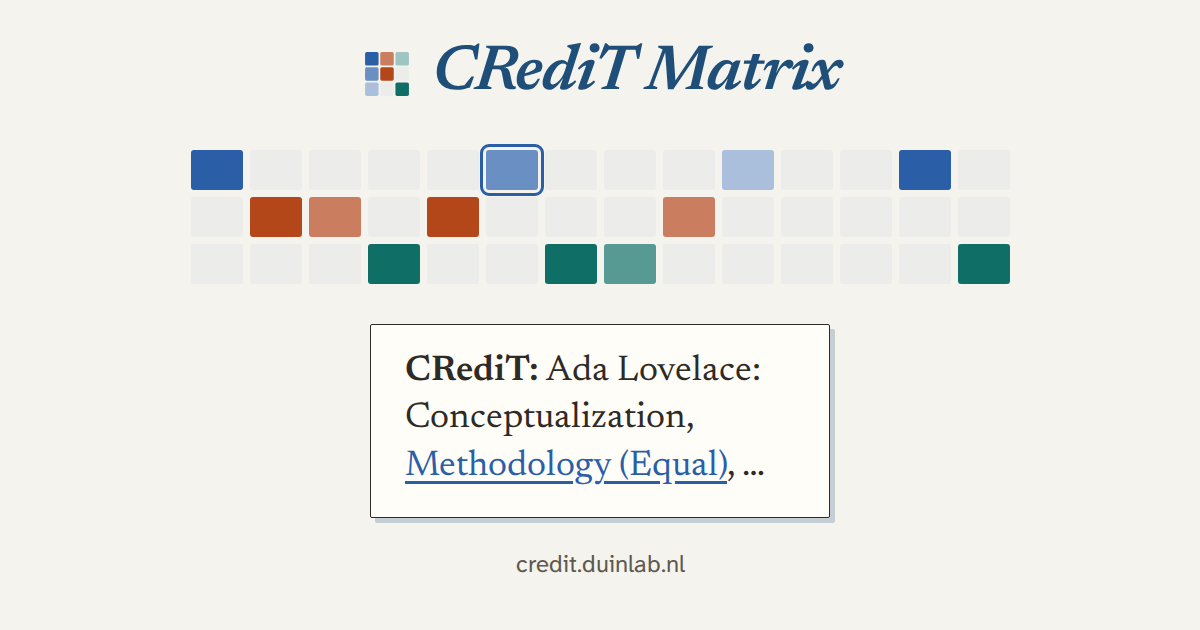
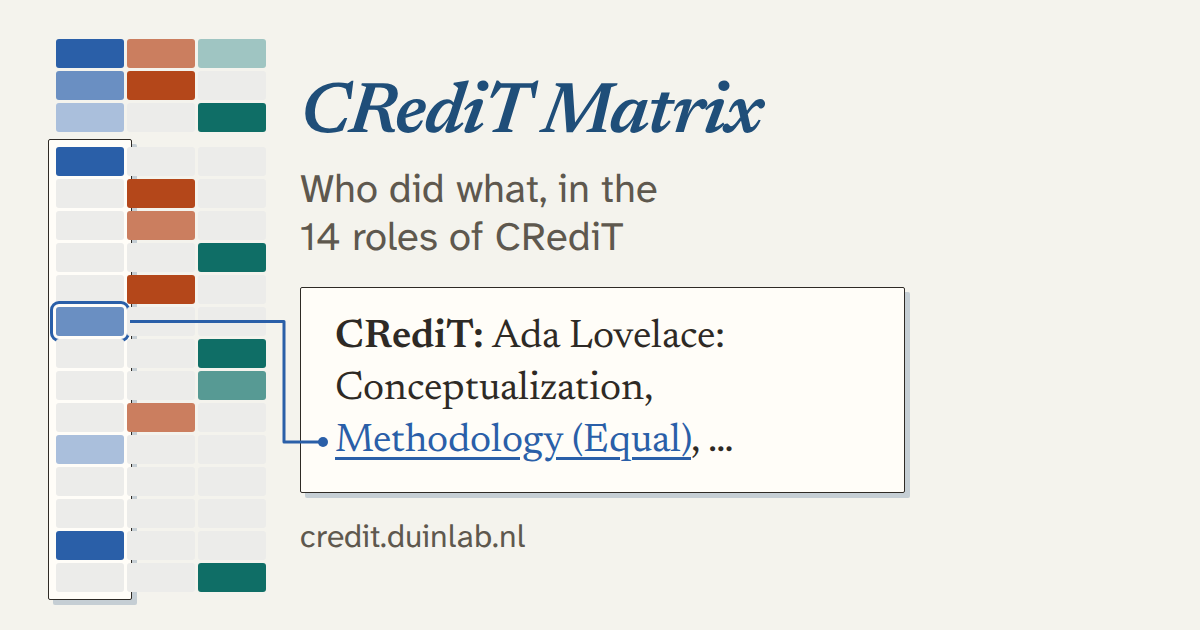
feat(brand): put the contribution matrix beside the statement on the social card
- the matrix runs down the left edge, people as columns and the 14 roles as rows,
  with the brand mark as its top three rows
- Ada's column sits on the same sheet as the statement, and a leader line joins her
  ringed Methodology cell to the underlined phrase
- the name, the line from the README and the address are set larger inside the
  centred 630 px
- cells and the leader are static markup, so the card needs no script to render

diff --git a/docs/brand/opengraph-image.html b/docs/brand/opengraph-image.html
@@ -1,66 +1,99 @@
 <!doctype html><meta charset="utf-8">
-<link href="https://fonts.googleapis.com/css2?family=Newsreader:ital,wght@0,400;0,600;1,400;1,600&family=Atkinson+Hyperlegible+Mono:wght@500&family=Atkinson+Hyperlegible+Next:wght@400;600&display=swap" rel="stylesheet">
-<!-- A poster, not a screen: link previews show this at 300-500 px and some crop it near-square,
-     so everything that carries meaning sits in the centred 630 px and is set large enough to
-     read at a quarter of its size. One idea: the statement comes from the grid. -->
+<link href="https://fonts.googleapis.com/css2?family=Newsreader:ital,wght@0,400;0,600;1,400;1,600&family=Atkinson+Hyperlegible+Next:wght@400;600&display=swap" rel="stylesheet">
+<!-- A poster, not a screen: link previews show this at 300-500 px and some crop it near-square.
+     The name, the line, the statement and the address sit in the centred 630 px (x 285-915) at a
+     size that reads at a quarter scale; the matrix is the picture, on the left, and may fall
+     outside the crop. One idea: the grid becomes the statement. Static markup, no script:
+     regenerate rather than hand-edit the cells. -->
 <style>
  *{box-sizing:border-box}
  html,body{margin:0;padding:0}
  /* The page colour is --color-surface: paper #fbf8f1 tinted 3% toward the default ink-blue. */
- body{width:1200px;height:630px;background:#f4f3ed;color:#2e2a25;overflow:hidden;
-      font-family:"Atkinson Hyperlegible Next",system-ui;
-      display:flex;flex-direction:column;align-items:center;justify-content:center;padding-bottom:8px}
- .lock{display:flex;align-items:center;gap:18px}
- .wm{font-family:Newsreader,serif;font-style:italic;font-weight:600;font-size:64px;line-height:1;
-     letter-spacing:-.02em;color:#1f4e79}
- /* The heatmap on its side, a contributor per row: the figure's own orientation option. */
- .band{margin-top:44px;display:grid;grid-template-columns:repeat(14,52px);gap:7px}
- .cell{height:40px;border-radius:3px;background:#ececea}
+ body{width:1200px;height:630px;background:#f4f3ed;color:#2e2a25;overflow:hidden;position:relative;
+      font-family:"Atkinson Hyperlegible Next",system-ui}
+ /* People are columns, roles are rows, as in the app. The top three rows are the brand mark:
+    one hue per column, lead on the diagonal. */
+ .grid{position:absolute;left:56px;top:39px;display:grid;grid-template-columns:repeat(3,68px);gap:3px;z-index:1}
+ .grid i{display:block;height:29px;border-radius:3px;background:#ececea}
+ .grid i:nth-child(n+10):nth-child(-n+12){margin-top:12px}
  /* The app's link: the cell and the phrase it produced share the contributor's hue. */
- .cell.linked{outline:3px solid #2a5fa8;outline-offset:3px}
- /* The statement sits on the app's result sheet: bright paper, an ink edge, the hard sheet shadow. */
- .out{margin-top:40px;width:460px;background:#fffdf8;border:1px solid #2e2a25;border-radius:2px;
-      padding:24px 34px 26px;box-shadow:5px 5px 0 rgb(31 78 121/.22)}
- .stmt{margin:0;font-family:Newsreader,serif;font-size:36px;line-height:1.32}
+ .grid i.linked{outline:3px solid #2a5fa8;outline-offset:3px}
+ /* Ada's column and the statement share one sheet: bright paper, an ink edge, the hard sheet shadow. */
+ .sheet{background:#fffdf8;border:1px solid #2e2a25;border-radius:2px;box-shadow:5px 5px 0 rgb(31 78 121/.22)}
+ .col-sheet{position:absolute;left:48px;top:139px;width:84px;height:461px}
+ .text{position:absolute;left:300px;top:75px;width:605px}
+ .wm{font-family:Newsreader,serif;font-style:italic;font-weight:600;font-size:72px;line-height:80px;
+      letter-spacing:-.02em;color:#1f4e79}
+ .what{margin:10px 0 0;font-size:40px;line-height:48px;color:#5e584e;height:96px}
+ .card{margin-top:26px;height:206px;padding:24px 34px}
+ .stmt{margin:0;font-family:Newsreader,serif;font-size:40px;line-height:52px}
  .stmt b{font-weight:600}
  .stmt .link{white-space:nowrap;color:#2a5fa8;text-decoration:underline 3px;text-underline-offset:6px}
- .url{margin-top:30px;font-size:24px;color:#5e584e}
+ .url{margin-top:26px;font-size:32px;line-height:36px;color:#5e584e}
+ /* From the ringed cell, along its row, down the gutter, into the card to the phrase. */
+ .leader{position:absolute;left:0;top:0;z-index:2}
 </style>
-<div class="lock">
-  <svg width="54" height="54" viewBox="0 0 32 32" aria-hidden="true">
-    <rect x="3" y="3" width="8" height="8" rx="1" fill="#2a5fa8"/><rect x="12" y="3" width="8" height="8" rx="1" fill="#cb7e5f"/><rect x="21" y="3" width="8" height="8" rx="1" fill="#9fc5c2"/>
-    <rect x="3" y="12" width="8" height="8" rx="1" fill="#6a8fc2"/><rect x="12" y="12" width="8" height="8" rx="1" fill="#b4471a"/><rect x="21" y="12" width="8" height="8" rx="1" fill="#ececea"/>
-    <rect x="3" y="21" width="8" height="8" rx="1" fill="#aabfdc"/><rect x="12" y="21" width="8" height="8" rx="1" fill="#ececea"/><rect x="21" y="21" width="8" height="8" rx="1" fill="#0f6e66"/>
-  </svg>
-  <span class="wm">CRediT Matrix</span>
+<div class="sheet col-sheet"></div>
+<div class="grid">
+  <i style="background:#2a5fa8"></i>
+  <i style="background:#cb7e5f"></i>
+  <i style="background:#9fc5c2"></i>
+  <i style="background:#6a8fc2"></i>
+  <i style="background:#b4471a"></i>
+  <i style="background:#ececea"></i>
+  <i style="background:#aabfdc"></i>
+  <i style="background:#ececea"></i>
+  <i style="background:#0f6e66"></i>
+  <i style="background:#2a5fa8"></i>
+  <i style="background:#ececea"></i>
+  <i style="background:#ececea"></i>
+  <i style="background:#ececea"></i>
+  <i style="background:#b4471a"></i>
+  <i style="background:#ececea"></i>
+  <i style="background:#ececea"></i>
+  <i style="background:#cb7e5f"></i>
+  <i style="background:#ececea"></i>
+  <i style="background:#ececea"></i>
+  <i style="background:#ececea"></i>
+  <i style="background:#0f6e66"></i>
+  <i style="background:#ececea"></i>
+  <i style="background:#b4471a"></i>
+  <i style="background:#ececea"></i>
+  <i class="linked" style="background:#6a8fc2"></i>
+  <i style="background:#ececea"></i>
+  <i style="background:#ececea"></i>
+  <i style="background:#ececea"></i>
+  <i style="background:#ececea"></i>
+  <i style="background:#0f6e66"></i>
+  <i style="background:#ececea"></i>
+  <i style="background:#ececea"></i>
+  <i style="background:#579a94"></i>
+  <i style="background:#ececea"></i>
+  <i style="background:#cb7e5f"></i>
+  <i style="background:#ececea"></i>
+  <i style="background:#aabfdc"></i>
+  <i style="background:#ececea"></i>
+  <i style="background:#ececea"></i>
+  <i style="background:#ececea"></i>
+  <i style="background:#ececea"></i>
+  <i style="background:#ececea"></i>
+  <i style="background:#ececea"></i>
+  <i style="background:#ececea"></i>
+  <i style="background:#ececea"></i>
+  <i style="background:#2a5fa8"></i>
+  <i style="background:#ececea"></i>
+  <i style="background:#ececea"></i>
+  <i style="background:#ececea"></i>
+  <i style="background:#ececea"></i>
+  <i style="background:#0f6e66"></i>
 </div>
-<div class="band" id="band"></div>
-<div class="out">
-  <p class="stmt"><b>CRediT:</b> Ada Lovelace: Conceptualization, <span class="link">Methodology (Equal)</span>, …</p>
+<svg class="leader" width="1200" height="630" viewBox="0 0 1200 630" aria-hidden="true">
+  <path d="M130 321.5H284V442H323" fill="none" stroke="#2a5fa8" stroke-width="3" stroke-linejoin="round"/>
+  <circle cx="323" cy="442" r="5" fill="#2a5fa8"/>
+</svg>
+<div class="text">
+  <div class="wm">CRediT Matrix</div>
+  <p class="what">Who did what, in the<br>14 roles of CRediT</p>
+  <div class="sheet card"><p class="stmt"><b>CRediT:</b> Ada Lovelace:<br>Conceptualization,<br><span class="link">Methodology (Equal)</span>, …</p></div>
+  <div class="url">credit.duinlab.nl</div>
 </div>
-<div class="url">credit.duinlab.nl</div>
-<script>"use strict";
-// The sample that "Load sample data" loads (src/store/contribution-store.ts), in the first three
-// CONTRIBUTOR_HUES at heatCellColor's lead, equal and supporting tiers (src/core/contributor-color.ts).
-const tiers = [
-  ["#2a5fa8", "#6a8fc2", "#aabfdc"],
-  ["#b4471a", "#cb7e5f", "#e1b5a3"],
-  ["#0f6e66", "#579a94", "#9fc5c2"],
-];
-const roles = ["Conceptualization", "Data curation", "Formal analysis", "Funding acquisition", "Investigation",
-  "Methodology", "Project administration", "Resources", "Software", "Supervision", "Validation",
-  "Visualization", "Writing – original draft", "Writing – review & editing"];
-const scores = [
-  { Conceptualization: 100, Methodology: 66, "Writing – original draft": 100, Supervision: 33 },
-  { Investigation: 100, "Data curation": 100, Software: 66, "Formal analysis": 66 },
-  { "Funding acquisition": 100, "Project administration": 100, "Writing – review & editing": 100, Resources: 66 },
-];
-const tier = (score) => (score > 66 ? 0 : score > 33 ? 1 : 2);
-document.getElementById("band").innerHTML = scores
-  .map((person, row) => roles.map((role) => {
-    const score = person[role];
-    const linked = row === 0 && role === "Methodology" ? " linked" : "";
-    return `<div class="cell${linked}"${score ? ` style="background:${tiers[row][tier(score)]}"` : ""}></div>`;
-  }).join(""))
-  .join("");
-</script>

diff --git a/docs/brand/README.md b/docs/brand/README.md
@@ -29,5 +29,7 @@ The social card shows the sample data that "Load sample data" loads, so its stat
 app really produces.
 
 The social card is a poster for link previews, which show it 300 to 500 px wide and sometimes crop it
-to a square. Keep everything that carries meaning in the centred 630 px and large enough to read at a
-quarter size, and after a change look at it at 300 px wide and as a centre square crop.
+to a square. Keep the name, the line, the statement and the address in the centred 630 px, large enough
+to read at a quarter size; the matrix is the picture and may fall outside the crop. After a change look
+at it at 300 px wide and as a centre square crop. The cells and the leader line are static markup placed
+by arithmetic from the cell size, so move the cells and the line's path together.
